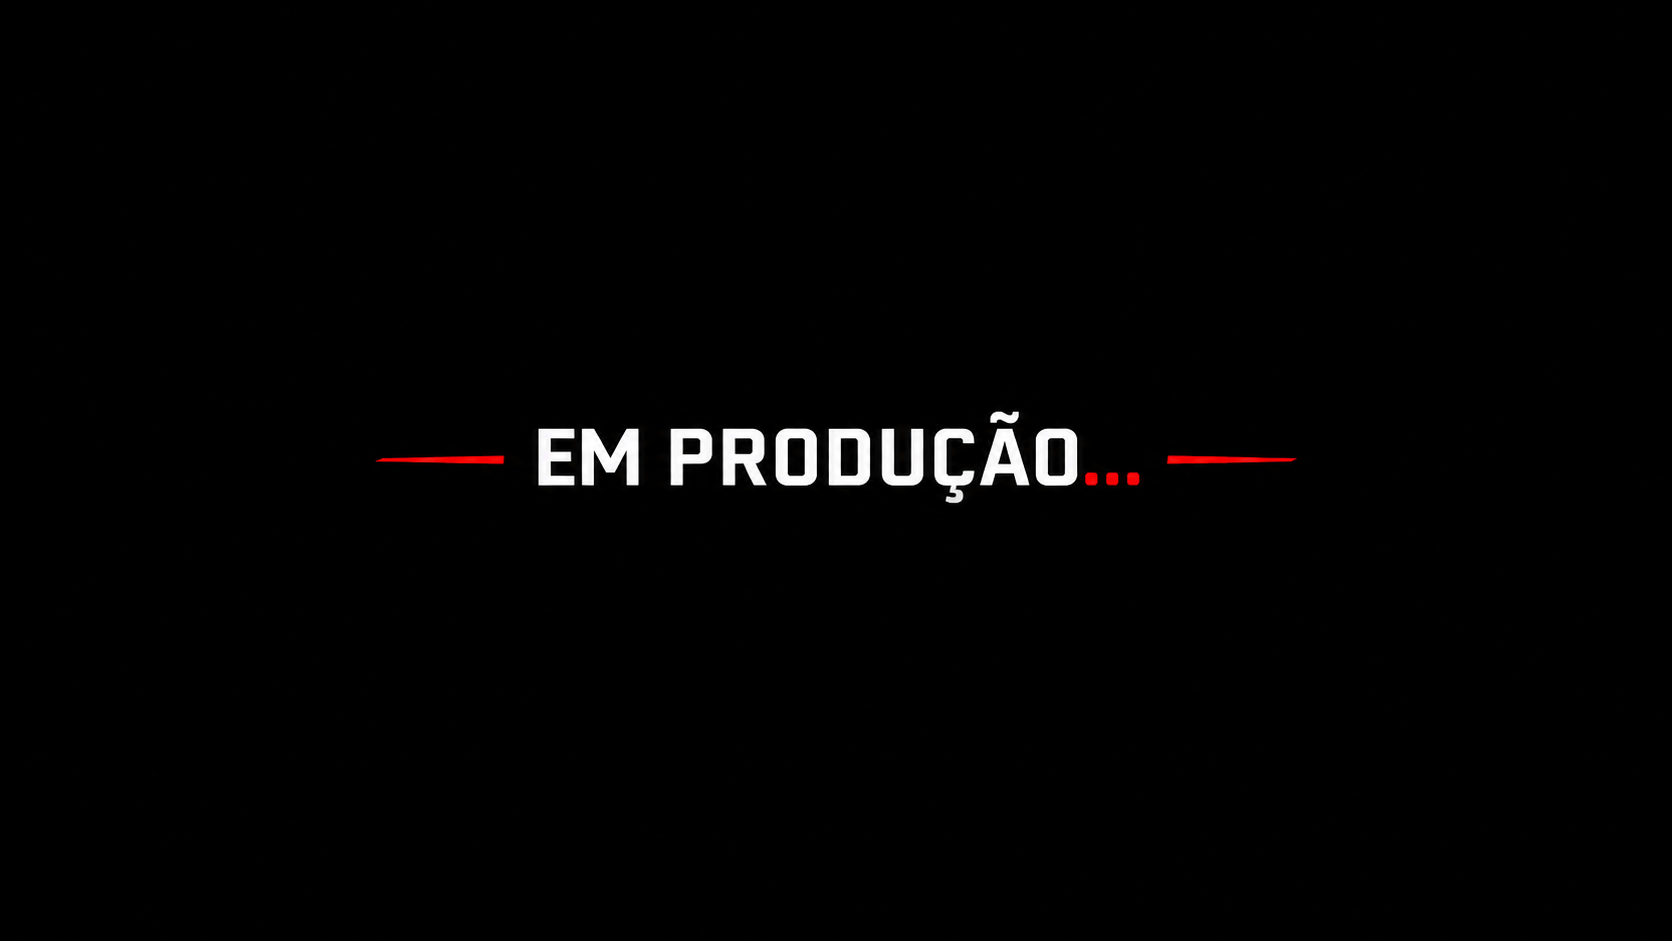
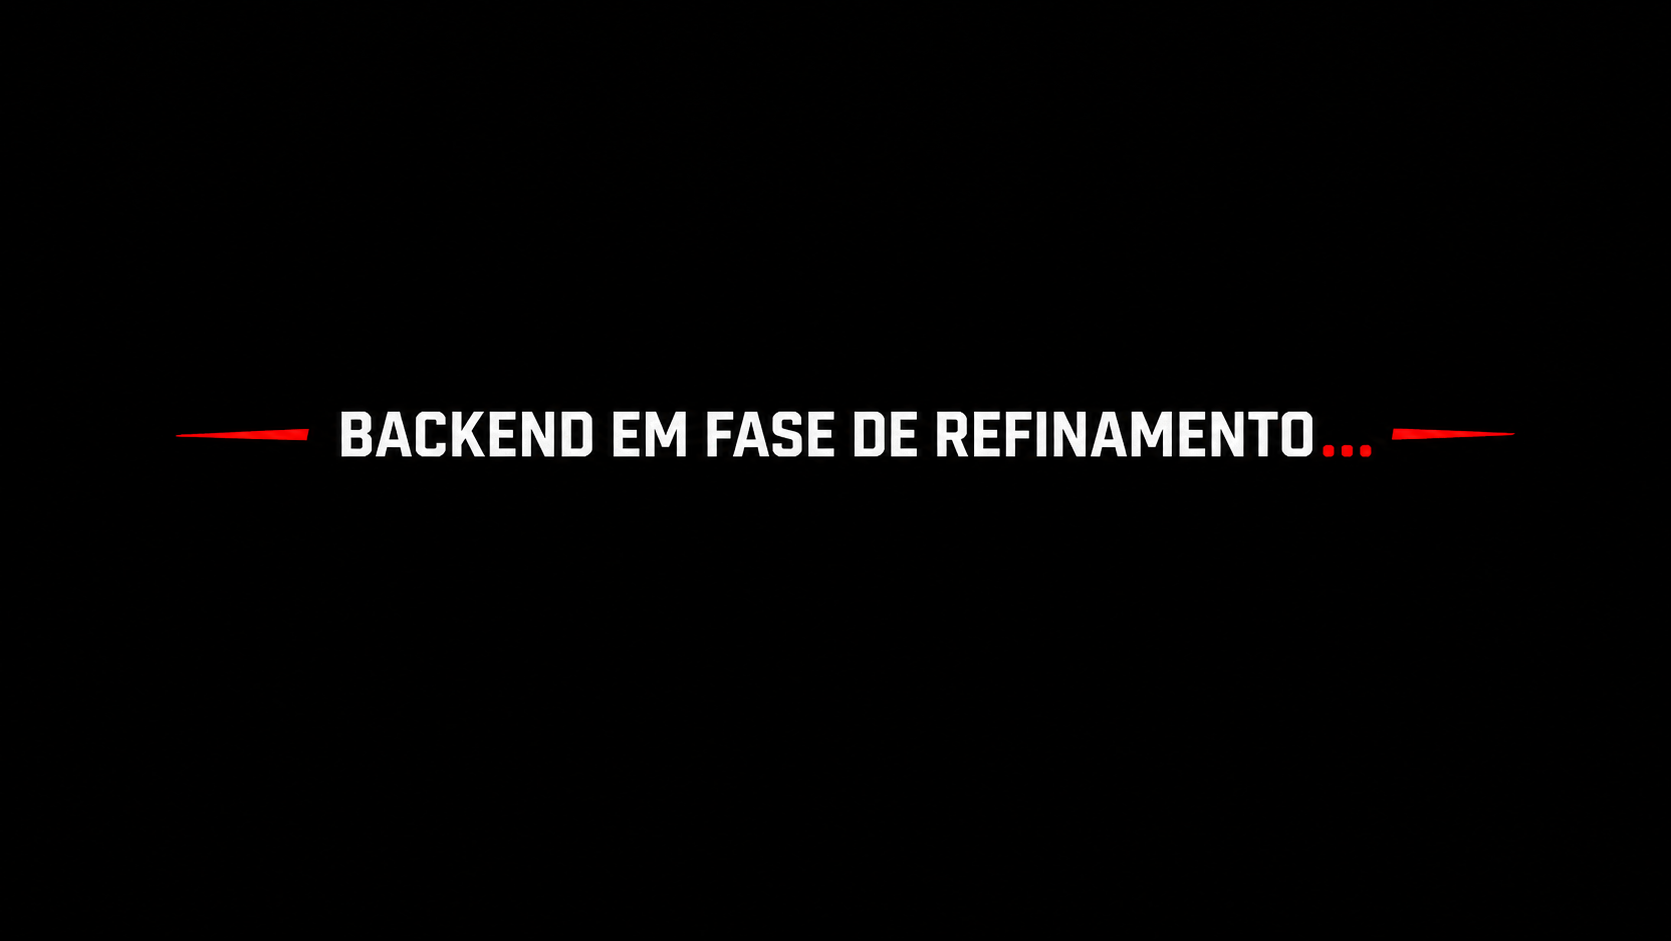
Restaurant API atualizada para 'fase de refinamento'

Changed region(s): [[0.1245, 0.4315, 0.9025, 0.5239]]

diff --git a/js/script.js b/js/script.js
@@ -145,12 +145,13 @@ const projects = {
             </p>
 
 
-            <h3>O que estou aprendendo</h3>
+            <h3>O que aprendi até o momento</h3>
 
             <p>
-                Experiência com APIs REST,
-                componentes React, requisições HTTP, persistência
-                de dados e separação entre Front-end e Back-end.
+                Como funcionam API's Rest, manipulação de endpoints,
+                injeção de dependências com beans, além de colocar
+                em prática os princípios SOLID por meio da dinamicidade
+                do spring boot.
             </p>
 
         `
